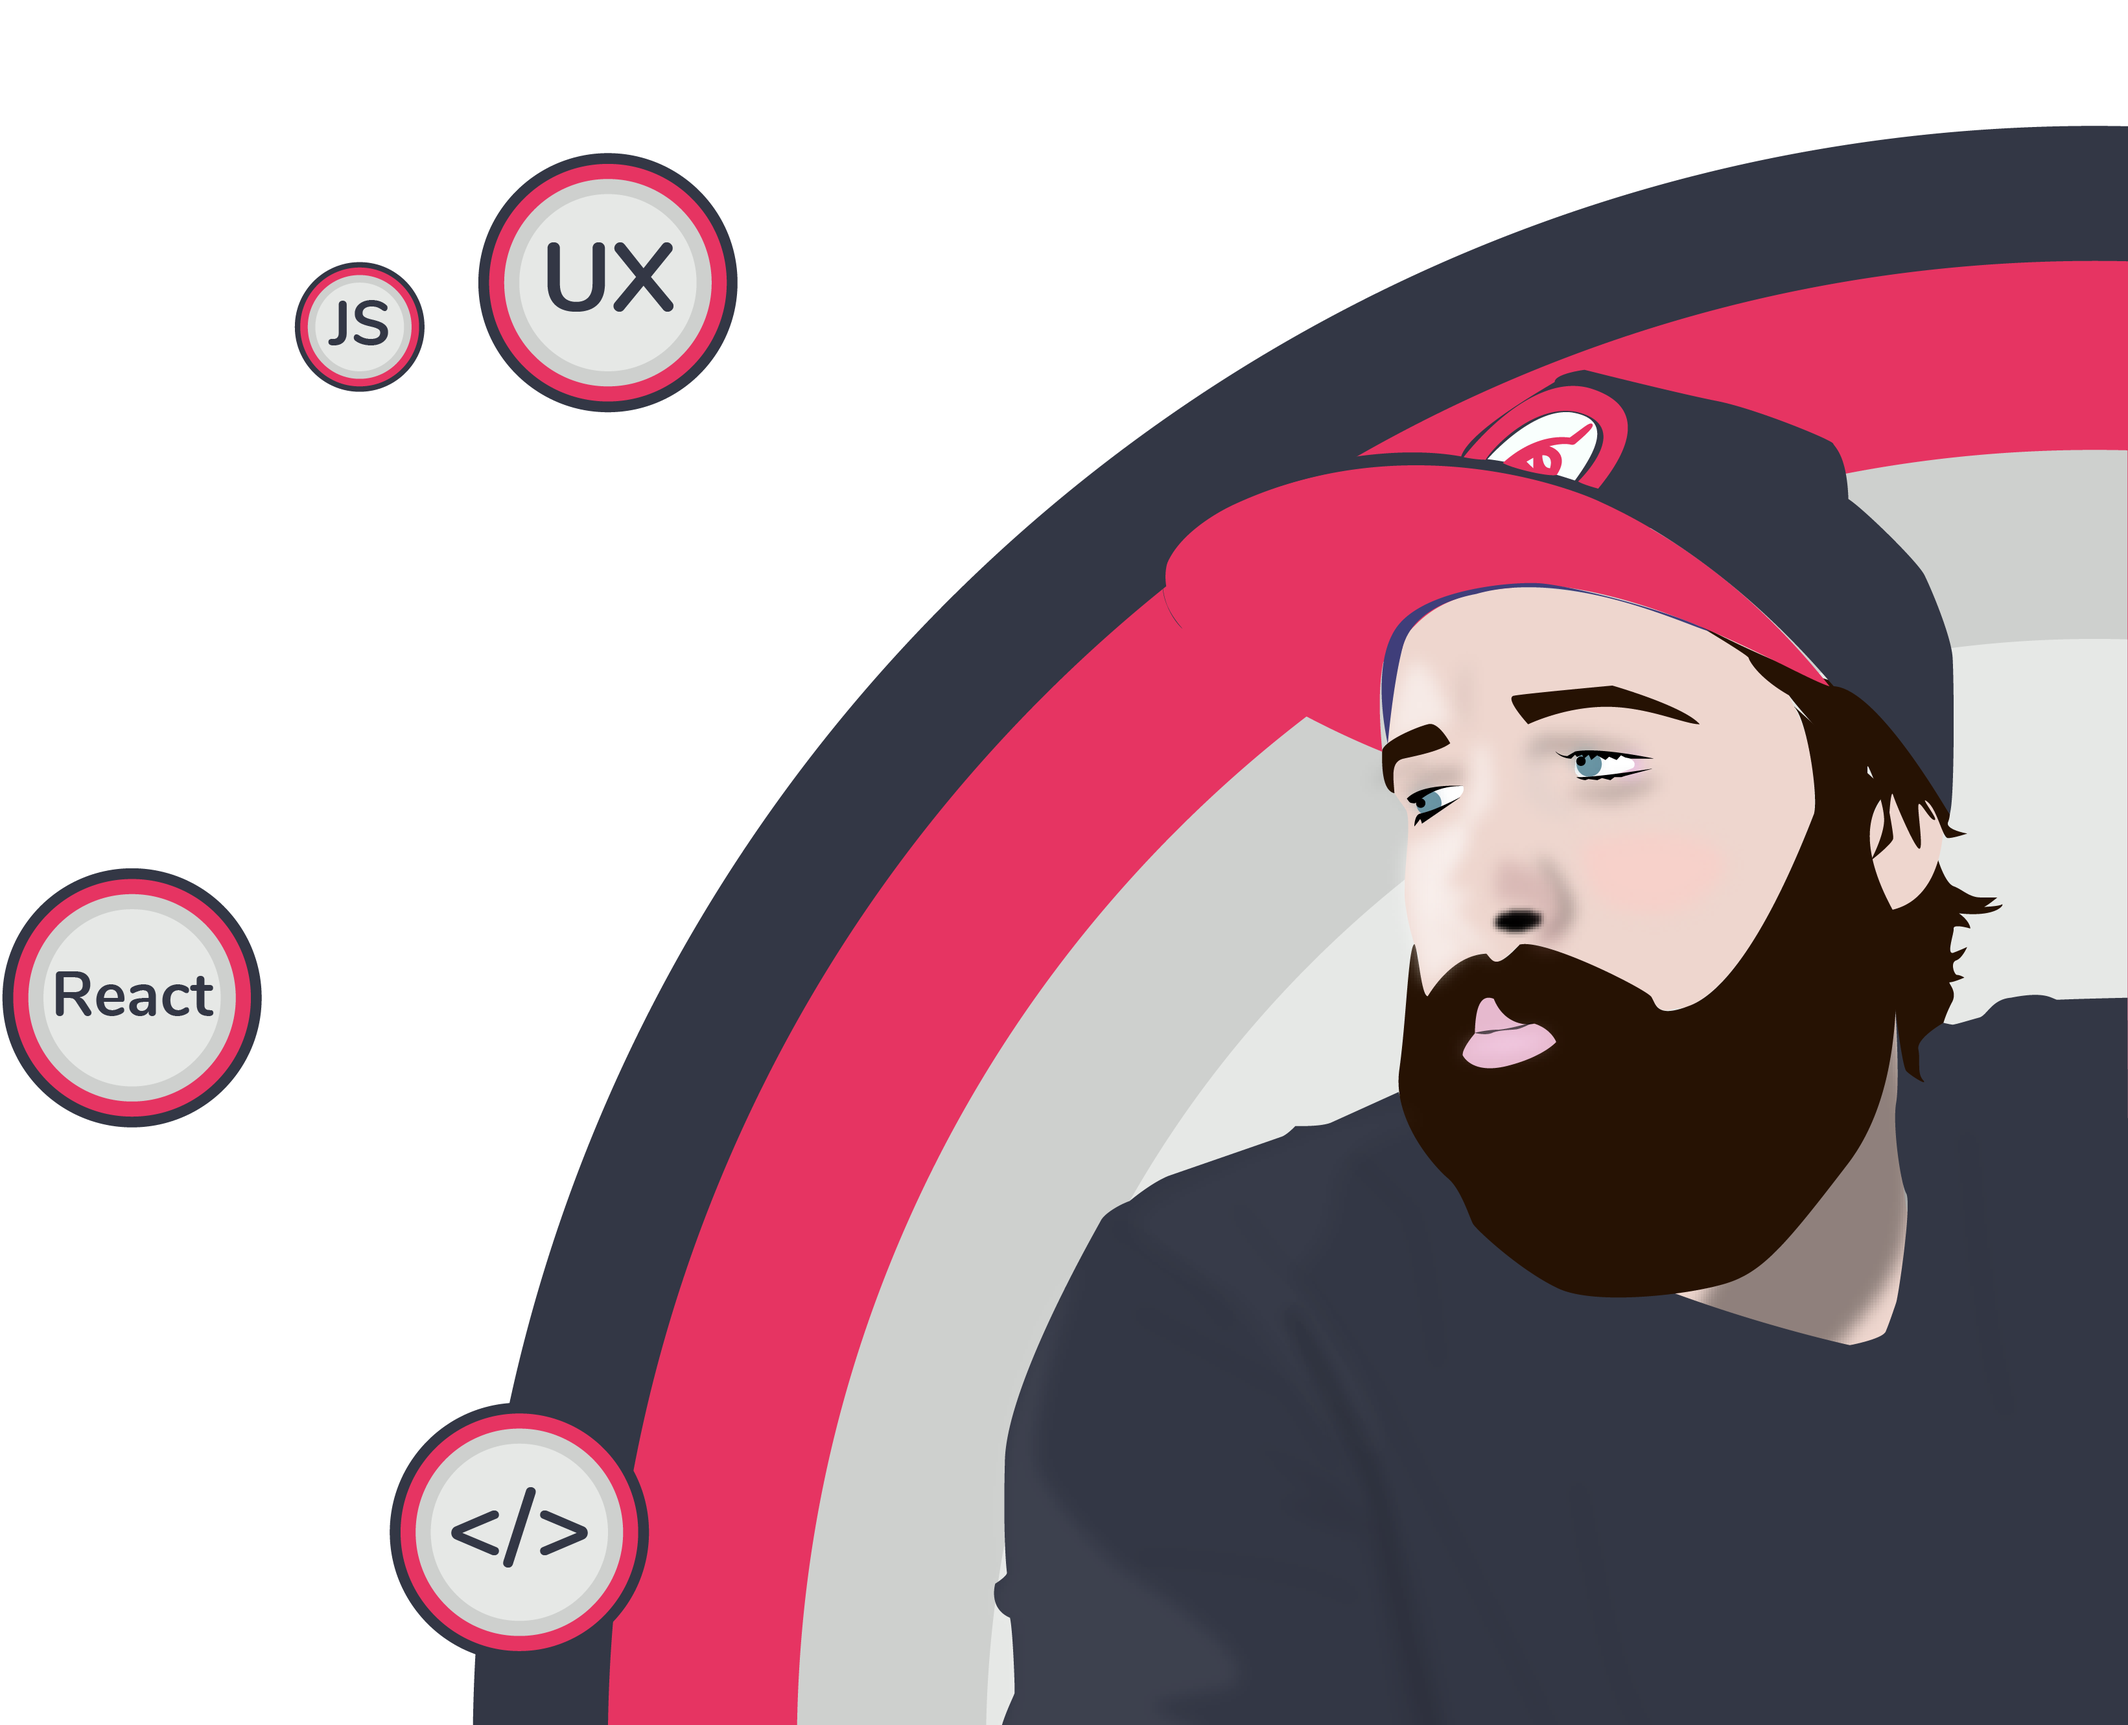
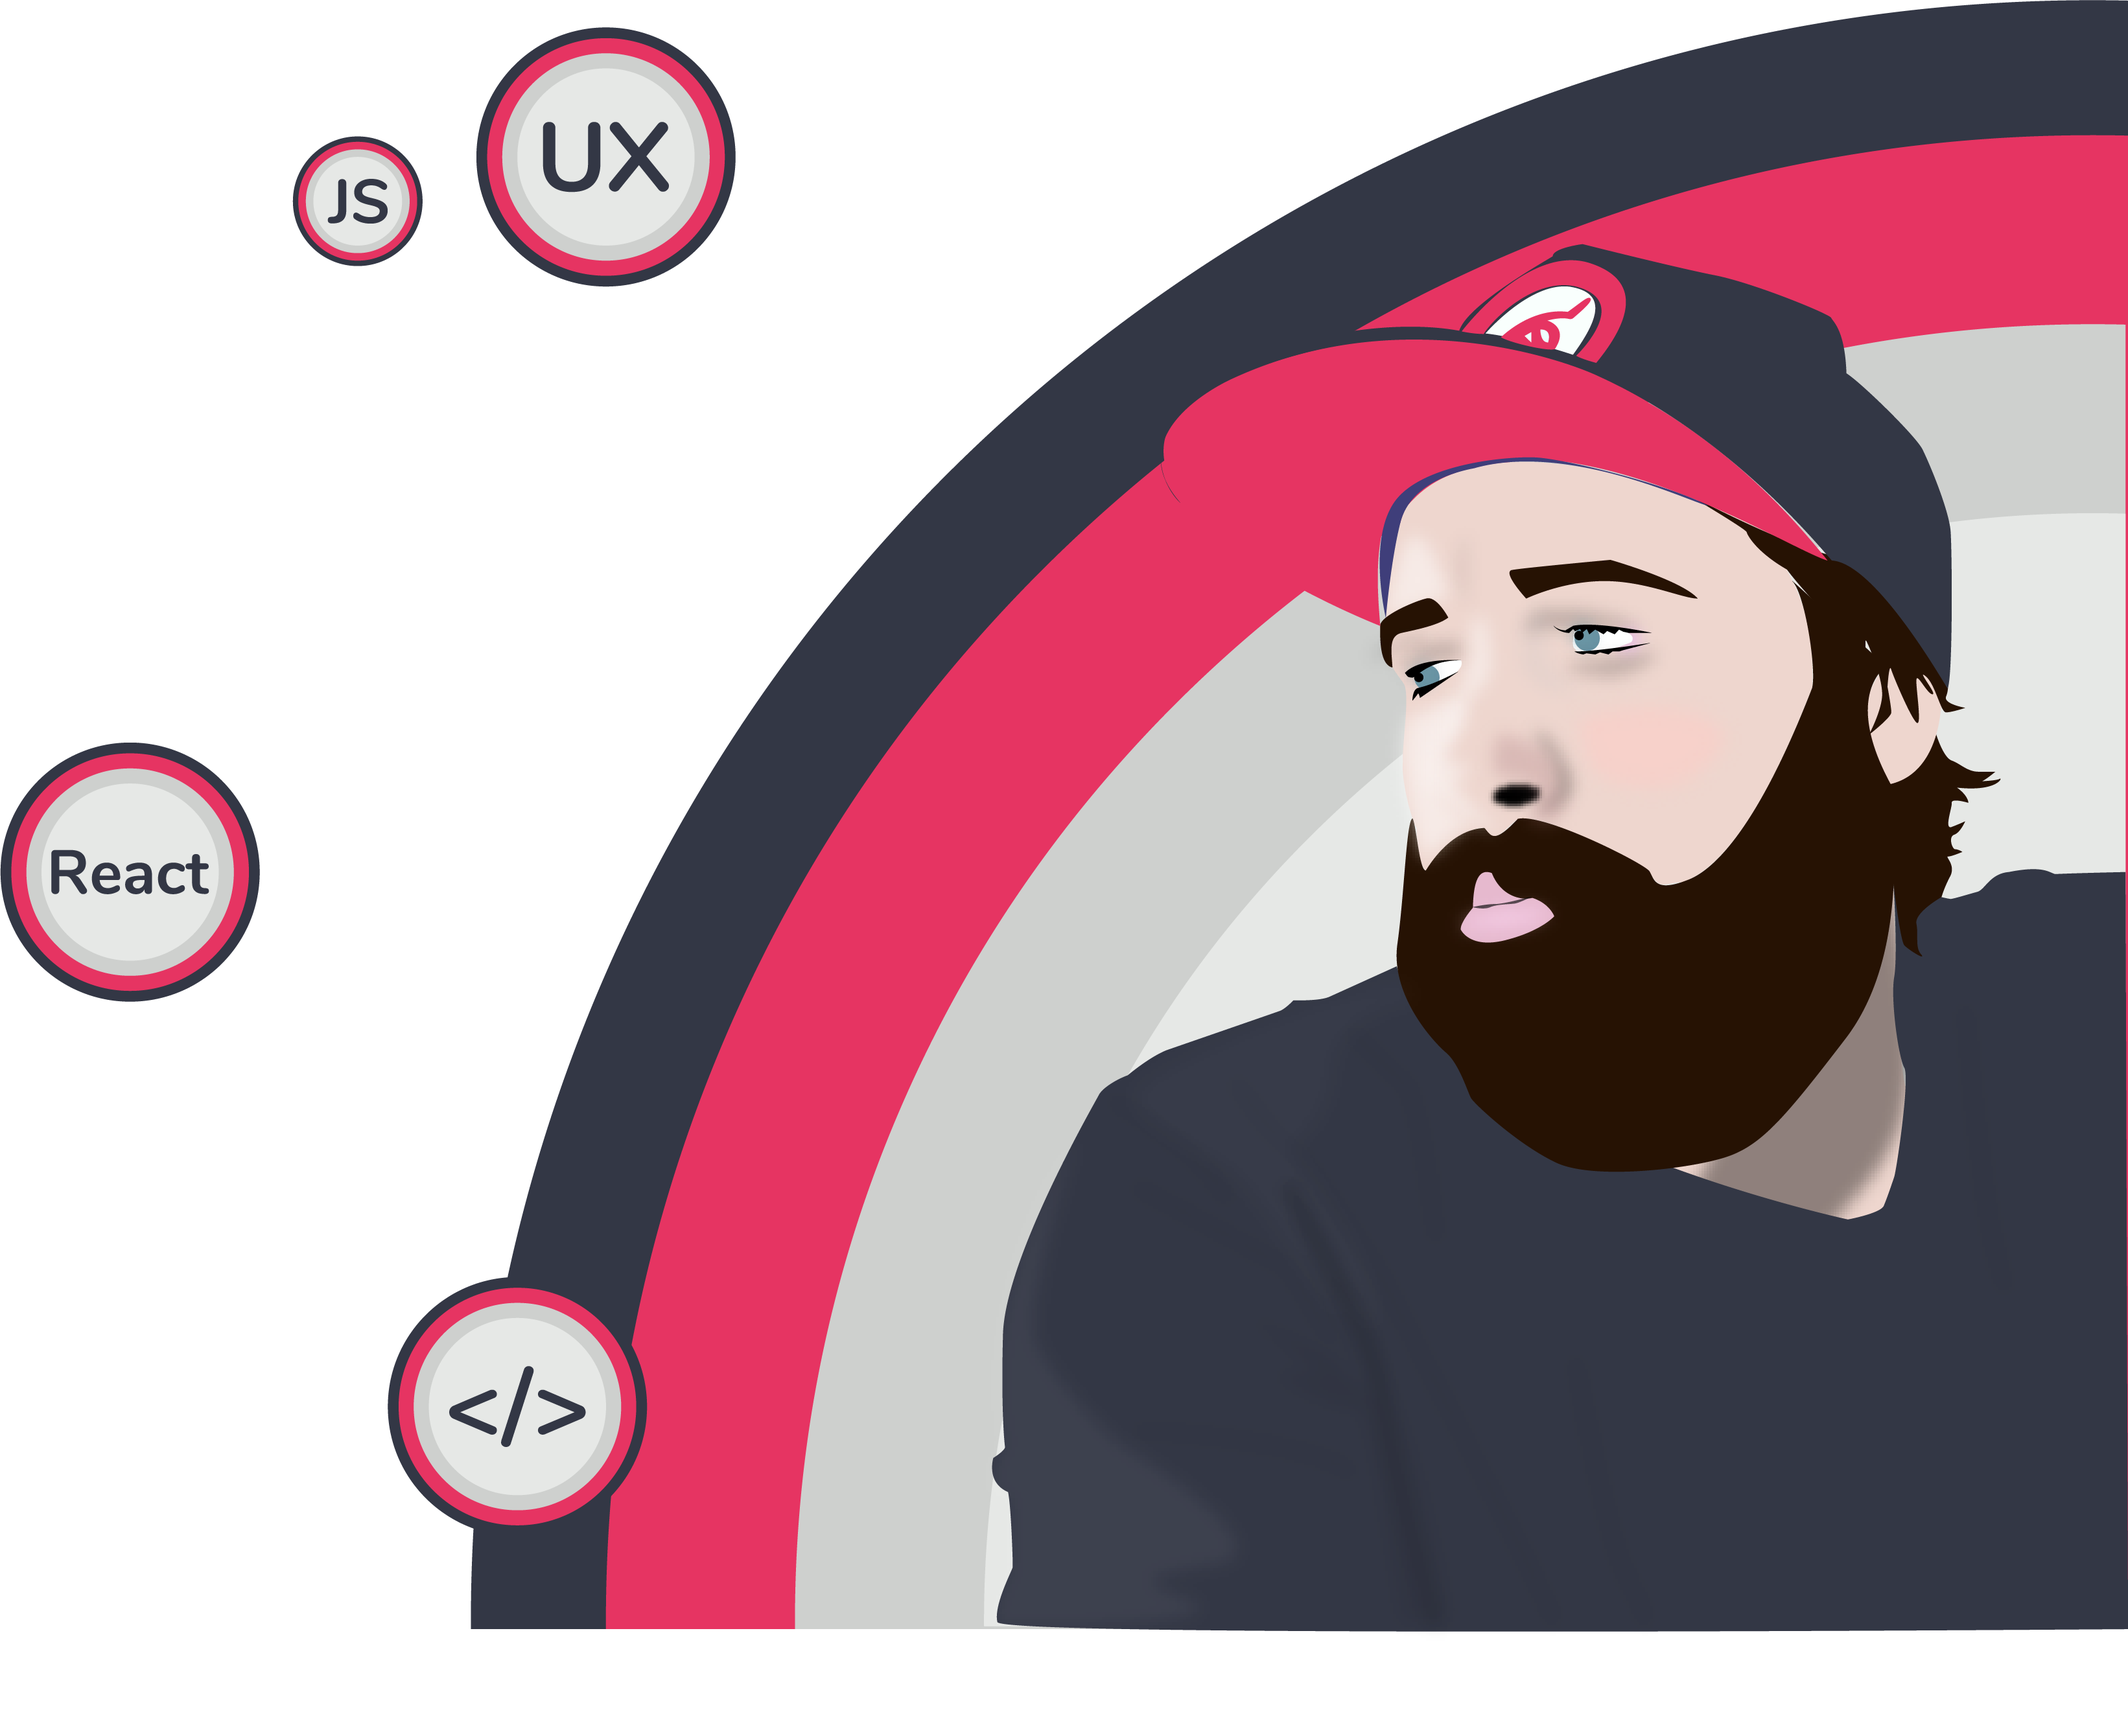
hero section created

diff --git a/src/comps/Hero/hero.scss b/src/comps/Hero/hero.scss
@@ -12,41 +12,45 @@
 .hero {
     width:100%;
     flex:3;
-
+    height:90vh;
+    padding-top: 45px;
     @include flex();
     justify-content: space-between;
     align-items: center;
+    overflow: hidden;
 
     background-color: $backgroundColor;
 }
 
 .heroText {
-    margin-left: 100px;
+    margin-left: 75px;
+    padding-bottom: 100px;
 
     .heroTitle {
         font-family: $primaryFont;
         font-size: 42pt;
-        color:$SecondaryColor;
+        color:$secondaryColor;
         margin: 5px;
     }
 
     .heroSubTitle {
         font-family: $primaryFont;
-        font-size: 14pt;
+        font-size: 21pt;
         color:$primaryColor;
         margin: 5px;
     }
 }
 
 .heroImg {
-    width:500px;
-    margin:0;
+    width:900px;
+    height:100%;
+    padding-top: 85px;
 }
 
 .btn {
-    width:100px;
-    height:30px;
-    background-color: $SecondaryColor;
+    width:150px;
+    height:50px;
+    background-color: $secondaryColor;
     border:0;
     border-radius: 3px;
 
@@ -54,6 +58,7 @@
     margin-right:10px;
 
     font-family: $primaryFont;
+    font-size: 14pt;
     font-weight: bold;
     color:$backgroundColor;
 
